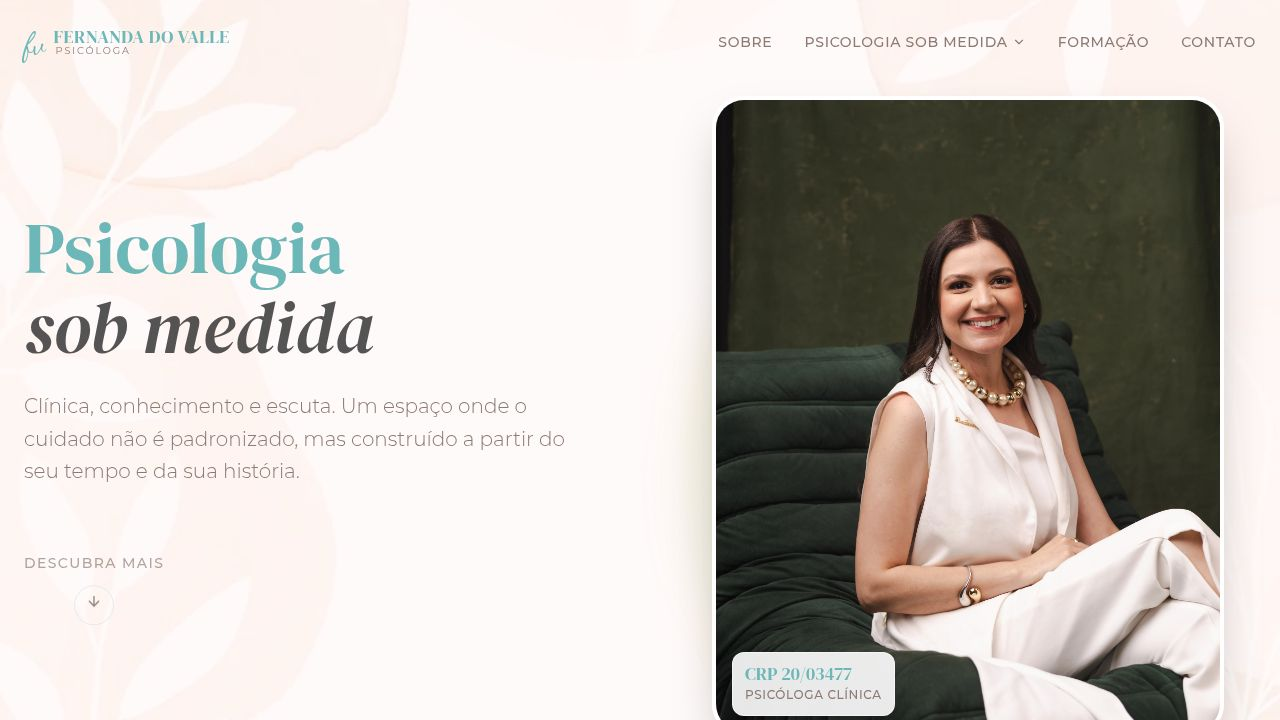
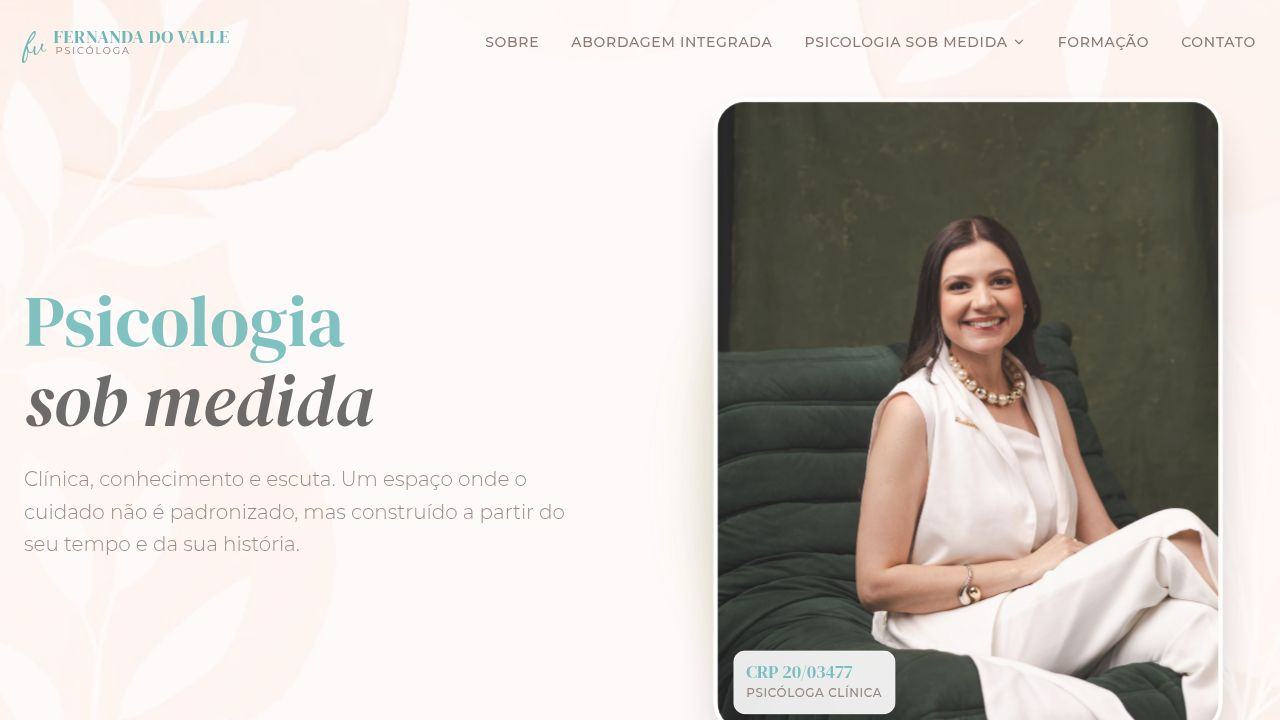
Update navigation links and button actions to WhatsApp
Adds "Abordagem Integrada" to navigation and links buttons to WhatsApp with pre-configured messages.

Replit-Commit-Author: Agent
Replit-Commit-Session-Id: 701ade66-9ae3-4882-b1b2-7ac765d5ec7c
Replit-Commit-Checkpoint-Type: full_checkpoint
Replit-Commit-Event-Id: 5b1cd69a-67e6-4074-bc21-4670cc9e2d7f
Replit-Commit-Screenshot-Url: https://storage.googleapis.com/screenshot-production-us-central1/0e7fdacd-9b51-462e-95d2-d29cd5bb538e/701ade66-9ae3-4882-b1b2-7ac765d5ec7c/hZoOgyI
Replit-Helium-Checkpoint-Created: true

diff --git a/client/src/components/sections/FinalCTA.tsx b/client/src/components/sections/FinalCTA.tsx
@@ -145,7 +145,7 @@ export function FinalCTA() {
 
                 <div className="mt-12 text-center">
                   <Button 
-                    onClick={() => scrollToSection("contato")}
+                    onClick={() => window.open('https://wa.me/5592981302000?text=Olá, Dra. Fernanda! Gostaria de saber mais sobre a Psicoterapia Individual e agendar uma sessão.', '_blank')}
                     className="bg-[#6FB4B4] hover:bg-[#5A9999] text-white rounded-full px-10 py-6 text-lg shadow-lg hover:shadow-xl transition-all"
                   >
                     Agendar Sessão
@@ -194,7 +194,7 @@ export function FinalCTA() {
 
                 <div className="mt-12 text-center">
                   <Button 
-                    onClick={() => scrollToSection("contato")}
+                    onClick={() => window.open('https://wa.me/5592981302000?text=Olá, Dra. Fernanda! Gostaria de conhecer mais sobre os projetos do Instituto IPPAM.', '_blank')}
                     className="bg-[#F5C518] hover:bg-[#D4A500] text-[#333333] font-medium rounded-full px-10 py-6 text-lg shadow-lg hover:shadow-xl transition-all"
                   >
                     Conhecer Projetos
@@ -229,7 +229,7 @@ export function FinalCTA() {
                 </p>
                 
                 <Button 
-                  onClick={() => scrollToSection("contato")}
+                  onClick={() => window.open('https://wa.me/5592981302000?text=Olá, Dra. Fernanda! Gostaria de saber mais sobre os seus livros e obras publicadas.', '_blank')}
                   className="bg-[#6A7C67] hover:bg-[#5A6B57] text-white rounded-full px-10 py-6 text-lg shadow-lg hover:shadow-xl transition-all group"
                 >
                   Explorar as Obras

diff --git a/client/src/components/sections/ThreeLayers.tsx b/client/src/components/sections/ThreeLayers.tsx
@@ -110,6 +110,15 @@ export function ThreeLayers() {
                 <div className="mt-auto">
                    <Button 
                     variant="ghost" 
+                    onClick={() => {
+                      const messages: Record<string, string> = {
+                        clinica: "Olá, Dra. Fernanda! Gostaria de saber mais sobre a Psicoterapia Individual e agendar uma sessão.",
+                        instituto: "Olá, Dra. Fernanda! Gostaria de conhecer mais sobre os projetos do Instituto IPPAM.",
+                        obras: "Olá, Dra. Fernanda! Gostaria de saber mais sobre os seus livros e obras publicadas."
+                      };
+                      const msg = messages[layer.id as keyof typeof messages] || "Olá, Dra. Fernanda!";
+                      window.open(`https://wa.me/5592981302000?text=${encodeURIComponent(msg)}`, '_blank');
+                    }}
                     className={cn("pl-0 hover:bg-transparent text-sm font-bold group/btn transition-colors h-auto py-0 uppercase tracking-wide", layer.textColor)}
                   >
                     {layer.cta} 

diff --git a/client/src/components/sections/Hero.tsx b/client/src/components/sections/Hero.tsx
@@ -10,7 +10,7 @@ export function Hero() {
   };
 
   return (
-    <section id="sobre" className="relative min-h-[100svh] flex items-center bg-[#FFFAFA] overflow-hidden pt-20 pb-10 md:py-24">
+    <section id="inicio" className="relative min-h-[100svh] flex items-center bg-[#FFFAFA] overflow-hidden pt-20 pb-10 md:py-24">
       {/* Background Texture */}
       <div 
         className="absolute inset-0 z-0 opacity-30 bg-cover bg-center mix-blend-multiply pointer-events-none"

diff --git a/client/src/components/sections/Navigation.tsx b/client/src/components/sections/Navigation.tsx
@@ -25,6 +25,7 @@ export function Navigation() {
 
   const navLinks = [
     { name: "Sobre", id: "sobre" },
+    { name: "Abordagem Integrada", id: "camadas" },
     {
       name: "Psicologia sob medida",
       children: [
